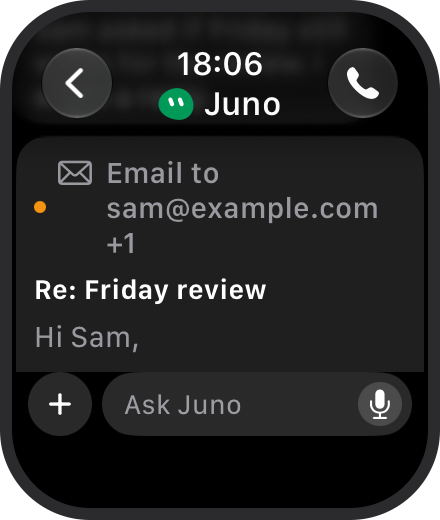
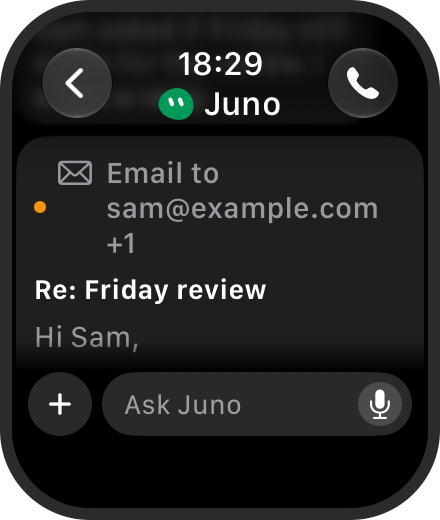
docs: retake the chat screenshots with the fade

Changed region(s): [[0.0295, 0.6769, 0.975, 0.7385], [0.4727, 0.0923, 0.5909, 0.1538], [0.4136, 0.0923, 0.4432, 0.1538]]

diff --git a/README.md b/README.md
@@ -6,7 +6,7 @@ An unofficial Apple Watch client for Grok Bot. It runs on the watch alone: there
 
 | Waiting for you | Chat | Approval | Question | Draft |
 | :---: | :---: | :---: | :---: | :---: |
-| <img src="docs/images/home.png" width="150" alt="The Bot list. A card from the Bot Forge waits for an answer, with Deny and Allow buttons."> | <img src="docs/images/chat-text.png" width="150" alt="A chat with the Bot Atlas, with two replies and the message field."> | <img src="docs/images/chat-approval.png" width="150" alt="An approval card in a chat. It shows the command and an Allow once button."> | <img src="docs/images/chat-question.png" width="150" alt="A question card in a chat, with one button for each answer."> | <img src="docs/images/chat-draft.png" width="150" alt="An email draft card in a chat, with the recipients and the subject."> |
+| <img src="docs/images/home.png" width="150" alt="The Bot list. A card from the Bot Forge waits for an answer, with Deny and Allow buttons."> | <img src="docs/images/chat-text.png" width="150" alt="A chat with the Bot Ledger, with your message, its reply and the message field."> | <img src="docs/images/chat-approval.png" width="150" alt="An approval card in a chat. It shows the command and an Allow once button."> | <img src="docs/images/chat-question.png" width="150" alt="A question card in a chat, with one button for each answer."> | <img src="docs/images/chat-draft.png" width="150" alt="An email draft card in a chat, with the recipients and the subject."> |
 
 The screens show sample data from the app's [demo mode](watch/README.md#demo-mode), not a real account.
 
